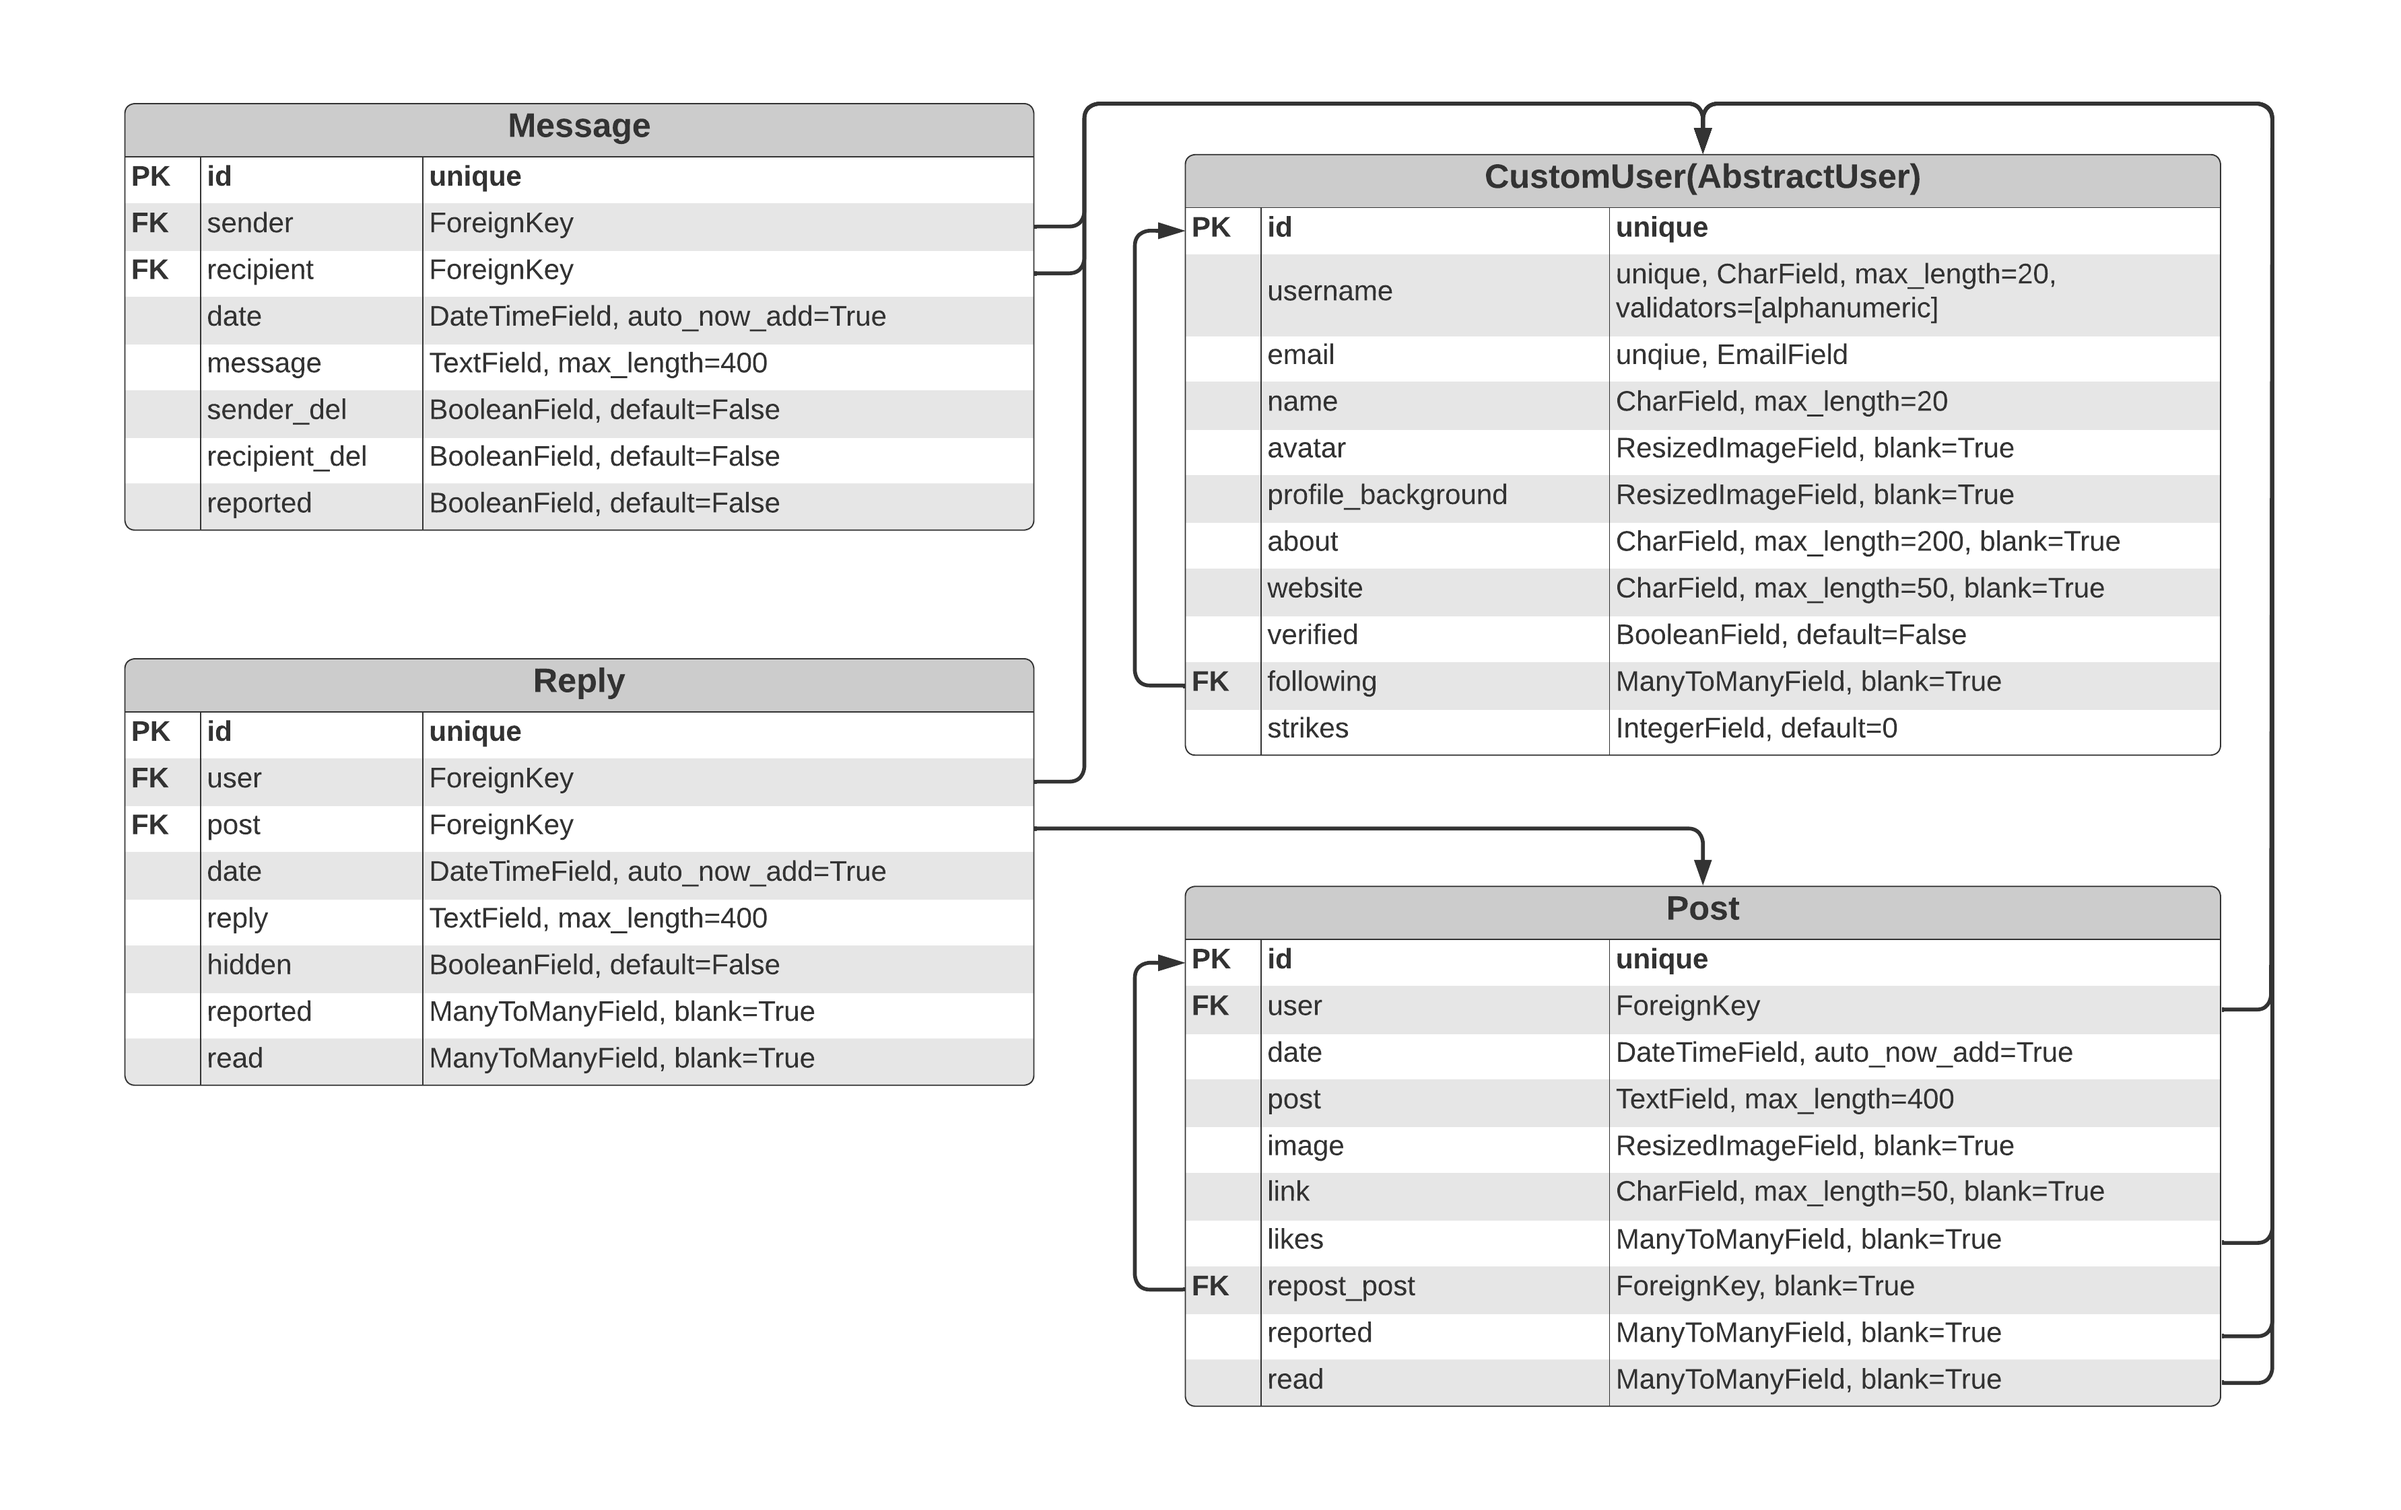
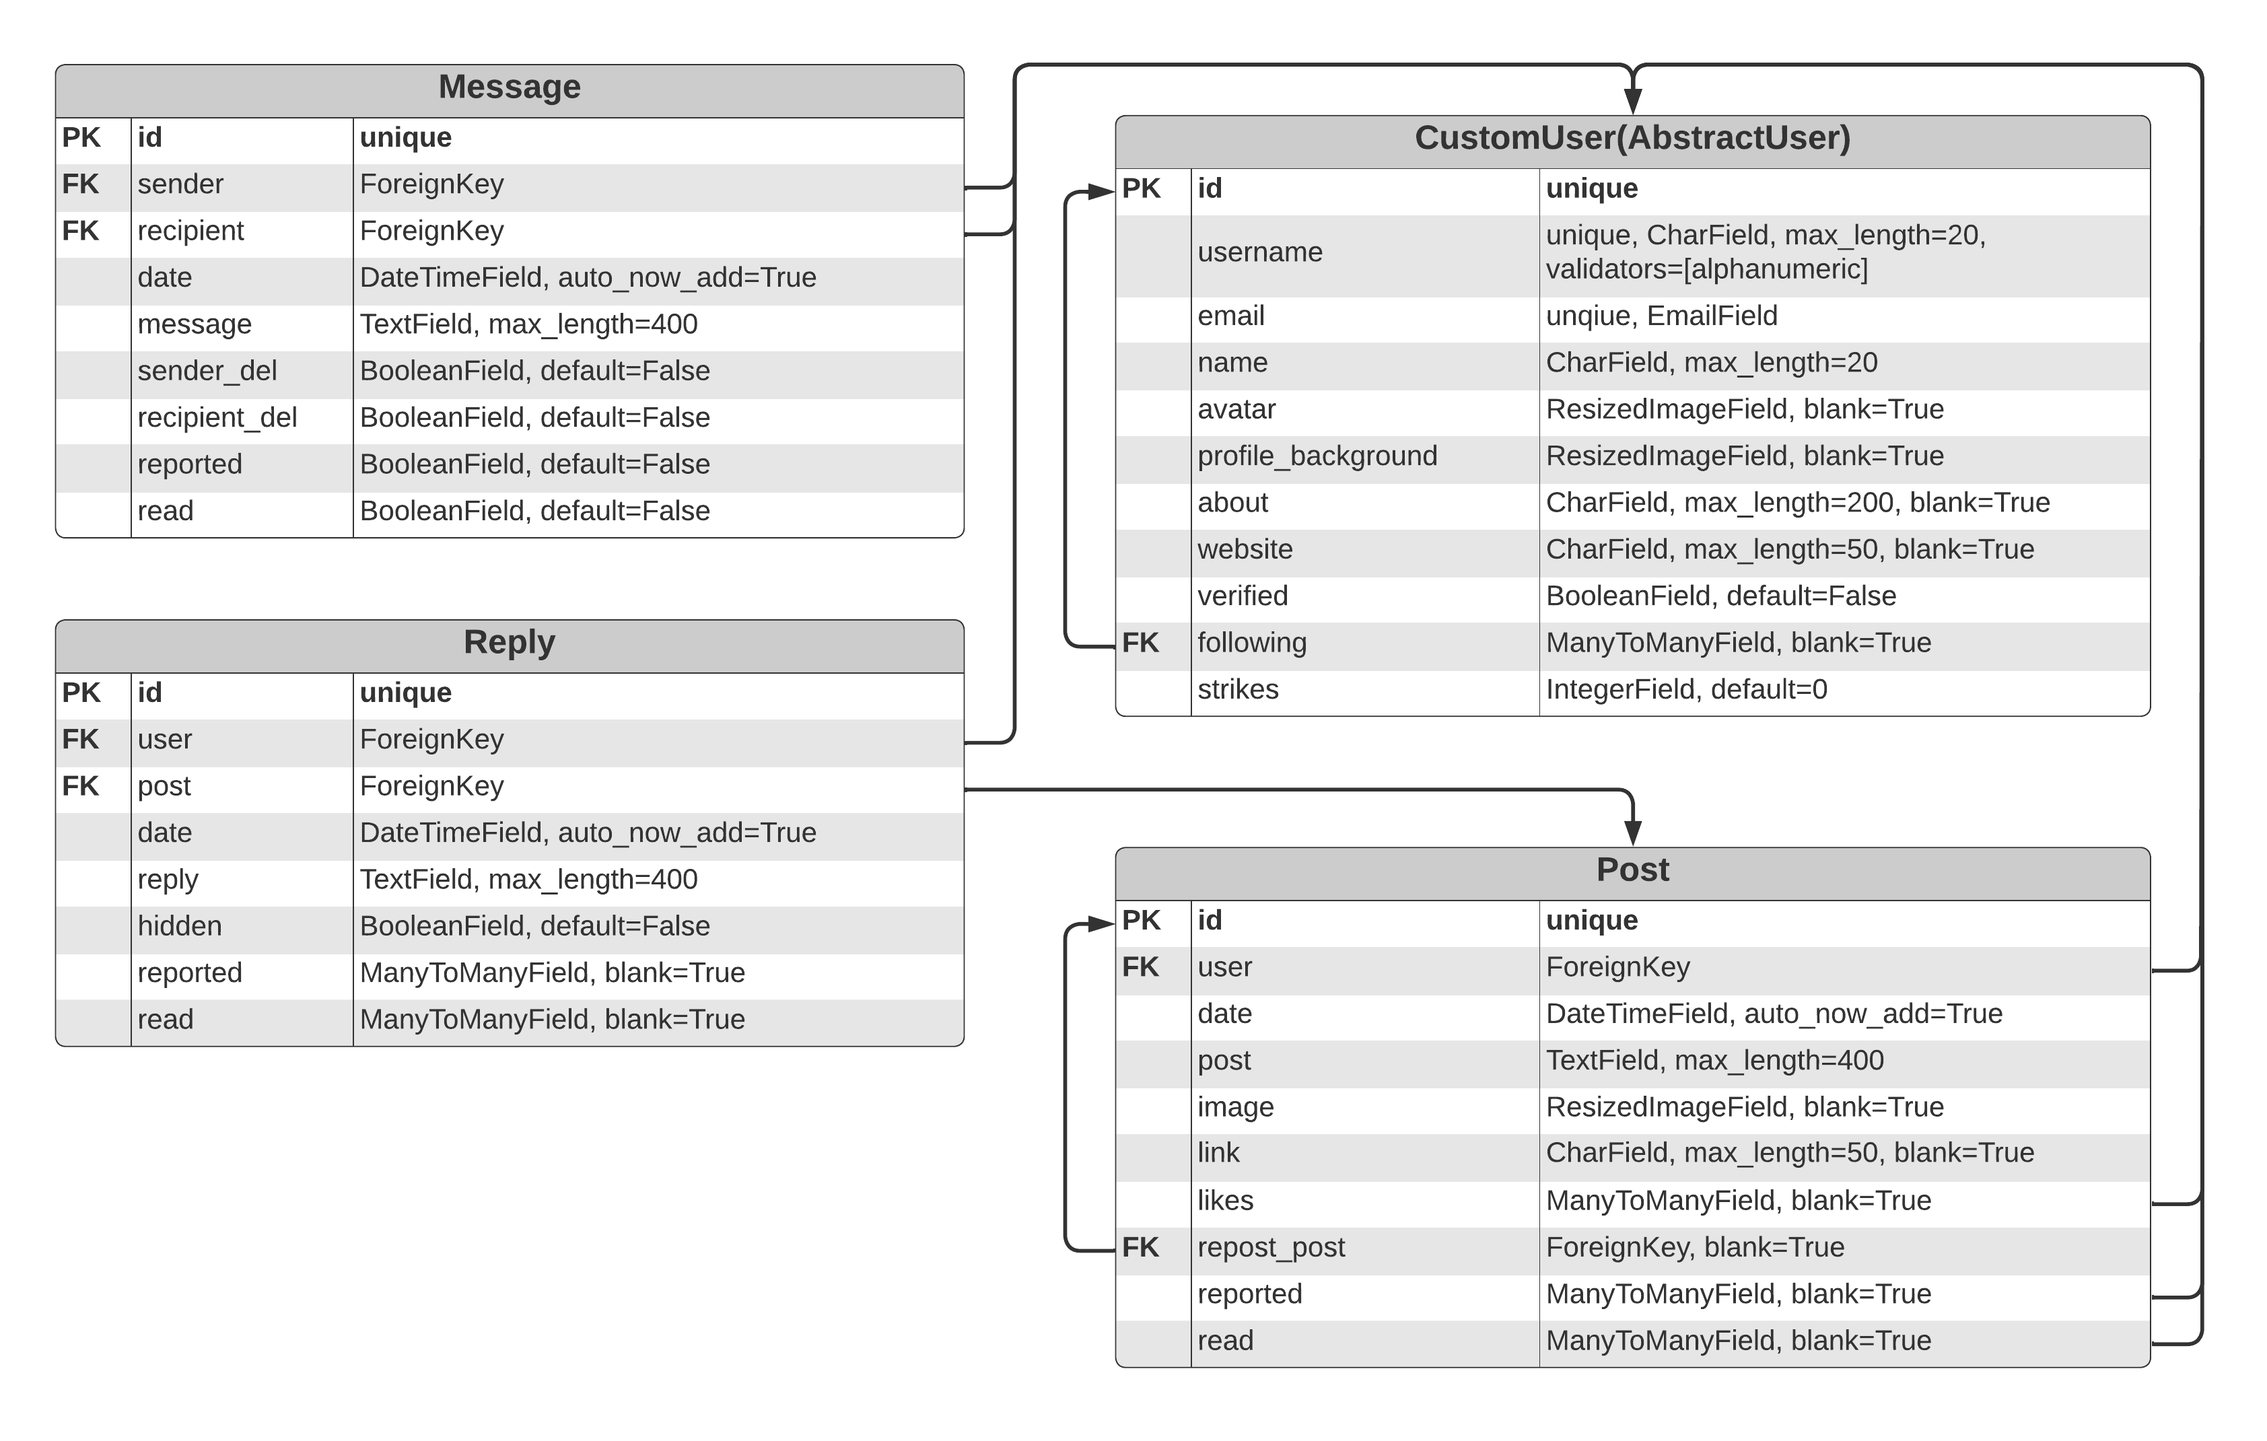
Documentation: detailed database models

Changed region(s): [[0.0, 0.0308, 0.9664, 0.7398], [0.4676, 0.5549, 0.9664, 0.9556]]

diff --git a/README.md b/README.md
@@ -9,7 +9,7 @@
 2. [Project Planning](#project-planning)
     1. [Github Project](#github-project)
     2. [Database Schema](#database-schema)
-    3. [User Stories](#user-stories)
+    3. [Epics and User Stories](#epics-and-user-stories)
 3. [User Experience](#user-experience)
     1. [Wireframes](#wireframes)
     2. [Design Choices](#design-choices)
@@ -62,7 +62,65 @@ The models required for this project are:
  
 ![Database Schema](https://raw.githubusercontent.com/paulio11/project-4/main/documentation/images/readme-schema.png)
 
- ### User Stories
+#### CustomUser Model
+
+| Name | Type | Details | Notes |
+|--|--|--|--|
+| id | Primary Key | unique |
+| username | CharField | unique, max_length=20, validators=[alphanumeric] | Used by the user to login and for their url, therefor it has to be unique. Alphanumeric validator ensures that user tagging works as punctuation breaks the script. |
+| email | EmailField | unique | Used when a user attempts to reset their password. |
+| name | CharField | max_length=30 | Included a max length so it doesn't break the size of html elements. |
+| avatar | ResizedImageField | blank=True, upload_to='avatars/', size=[150, 150], crop=['middle', 'center'], force_format='WEBP' | The user's avatar is displayed as a small square. Cropped and resized to keep the file size low and the aspect ratio correct. |
+| profile_background | ResizedImageField | blank=True, upload_to='backgrounds/', size=[600, 200], crop=['middle', 'center'], force_format='WEBP' | Cropped and resized to keep the file size low and the aspect ratio correct. |
+| about | CharField | max_length=200, blank=true | Text to display on a user's profile. |
+| website | CharField | max_length=50, blank=true | A website link to display on a user's profile. |
+| verified | BooleanField | default=False | Text to display on a user's profile. |
+| following | ManyToManyField | to self (CustomUser), blank=true | A list of followed users. |
+| strikes | IntegerField | default=0 | Number of strikes gained, for moderation. |
+
+#### Post Model
+
+| Name | Type | Details | Notes |
+|--|--|--|--|
+| id | Primary Key | unique |
+| user | Foreign Key | to CustomUser | The author of the post. |
+| date | DateTimeField | auto_now_add=True | Date of post, automatically added on creation. |
+| post | TextField | max_length=400 | Text content of the post. |
+| image | ResizedImageField | blank=True, upload_to='post-images/', size=[600, None], force_format='WEBP' | Optional image for post. Cropped to a width of 600px and converted to WEBP. |
+| link | CharField | max_length=50, blank=True | Optional website link. |
+| likes | ManyToManyField | to CustomUser, blank=True | A list of users that liked the post. |
+| repost_post | ForeighKey | to self (Post), blank=True | If this post is a repost this is the original post. |
+| reported | ManyToManyField | to CustomUser, blank=True | A list of user that have reported the post (for moderation). |
+| read | ManyToManyField | to CustomUser, blank=True | A list of users that have marked the post read (for mentions). |
+
+#### Reply Model
+
+| Name | Type | Details | Notes |
+|--|--|--|--|
+| id | Primary Key | unique |
+| user | Foreign Key | to CustomUser | The author of the reply. |
+| post | Foreign Key | to Post | The parent post of the reply. |
+| date | DateTimeField | auto_now_add=True | Date of reply, automatically added on creation. |
+| reply | TextField | max_length=400 | Text content of the reply. |
+| hidden | BooleanField | default=False | The author of the parent post can hide inapropriate replies. |
+| reported | ManyToManyField | to CustomUser, blank=True | A list of user that have reported the reply (for moderation).|
+| read | ManyToManyField | to CustomUser, blank=True | A list of users that have marked the reply read (for mentions). |
+
+#### Message Model
+
+| Name | Type | Details | Notes |
+|--|--|--|--|
+| id | Primary Key | unique |
+| sender | Foreign Key| to CustomUser | The user sending the message. |
+| recipient | Foreign Key | to CustomUser | The user receiving the message. |
+| date | DateTimeField | auto_now_add=True | Date of message, automatically added on creation. |
+| message | TextField | max_length=400 | Text content of the message. |
+| sender_del | BooleanField | default=False | True if the sender has deleted the message. |
+| recipient_del | BooleanField | default=False | True if the recipent has deleted the message. |
+| read | BooleanField | default=False | A user can mark a message as read, to remove it from unread messages. |
+| reported | BooleanField | default=False | A user can report a message (for moderation). |
+
+ ### Epics and User Stories
 There will be three types of users visiting Squigl. A **new** or **logged out user**, a **registered user**, and **moderators**. User stories were logged as issues on GitHub to track them throughout the project - [Project Issues](https://github.com/paulio11/project-4/issues?q=is:issue%20is:closed%20sort:created-asc). They were subject to manual testing at the end of the project to determine if I was successful with my objectives.
 
 #### New or Logged Out Users
